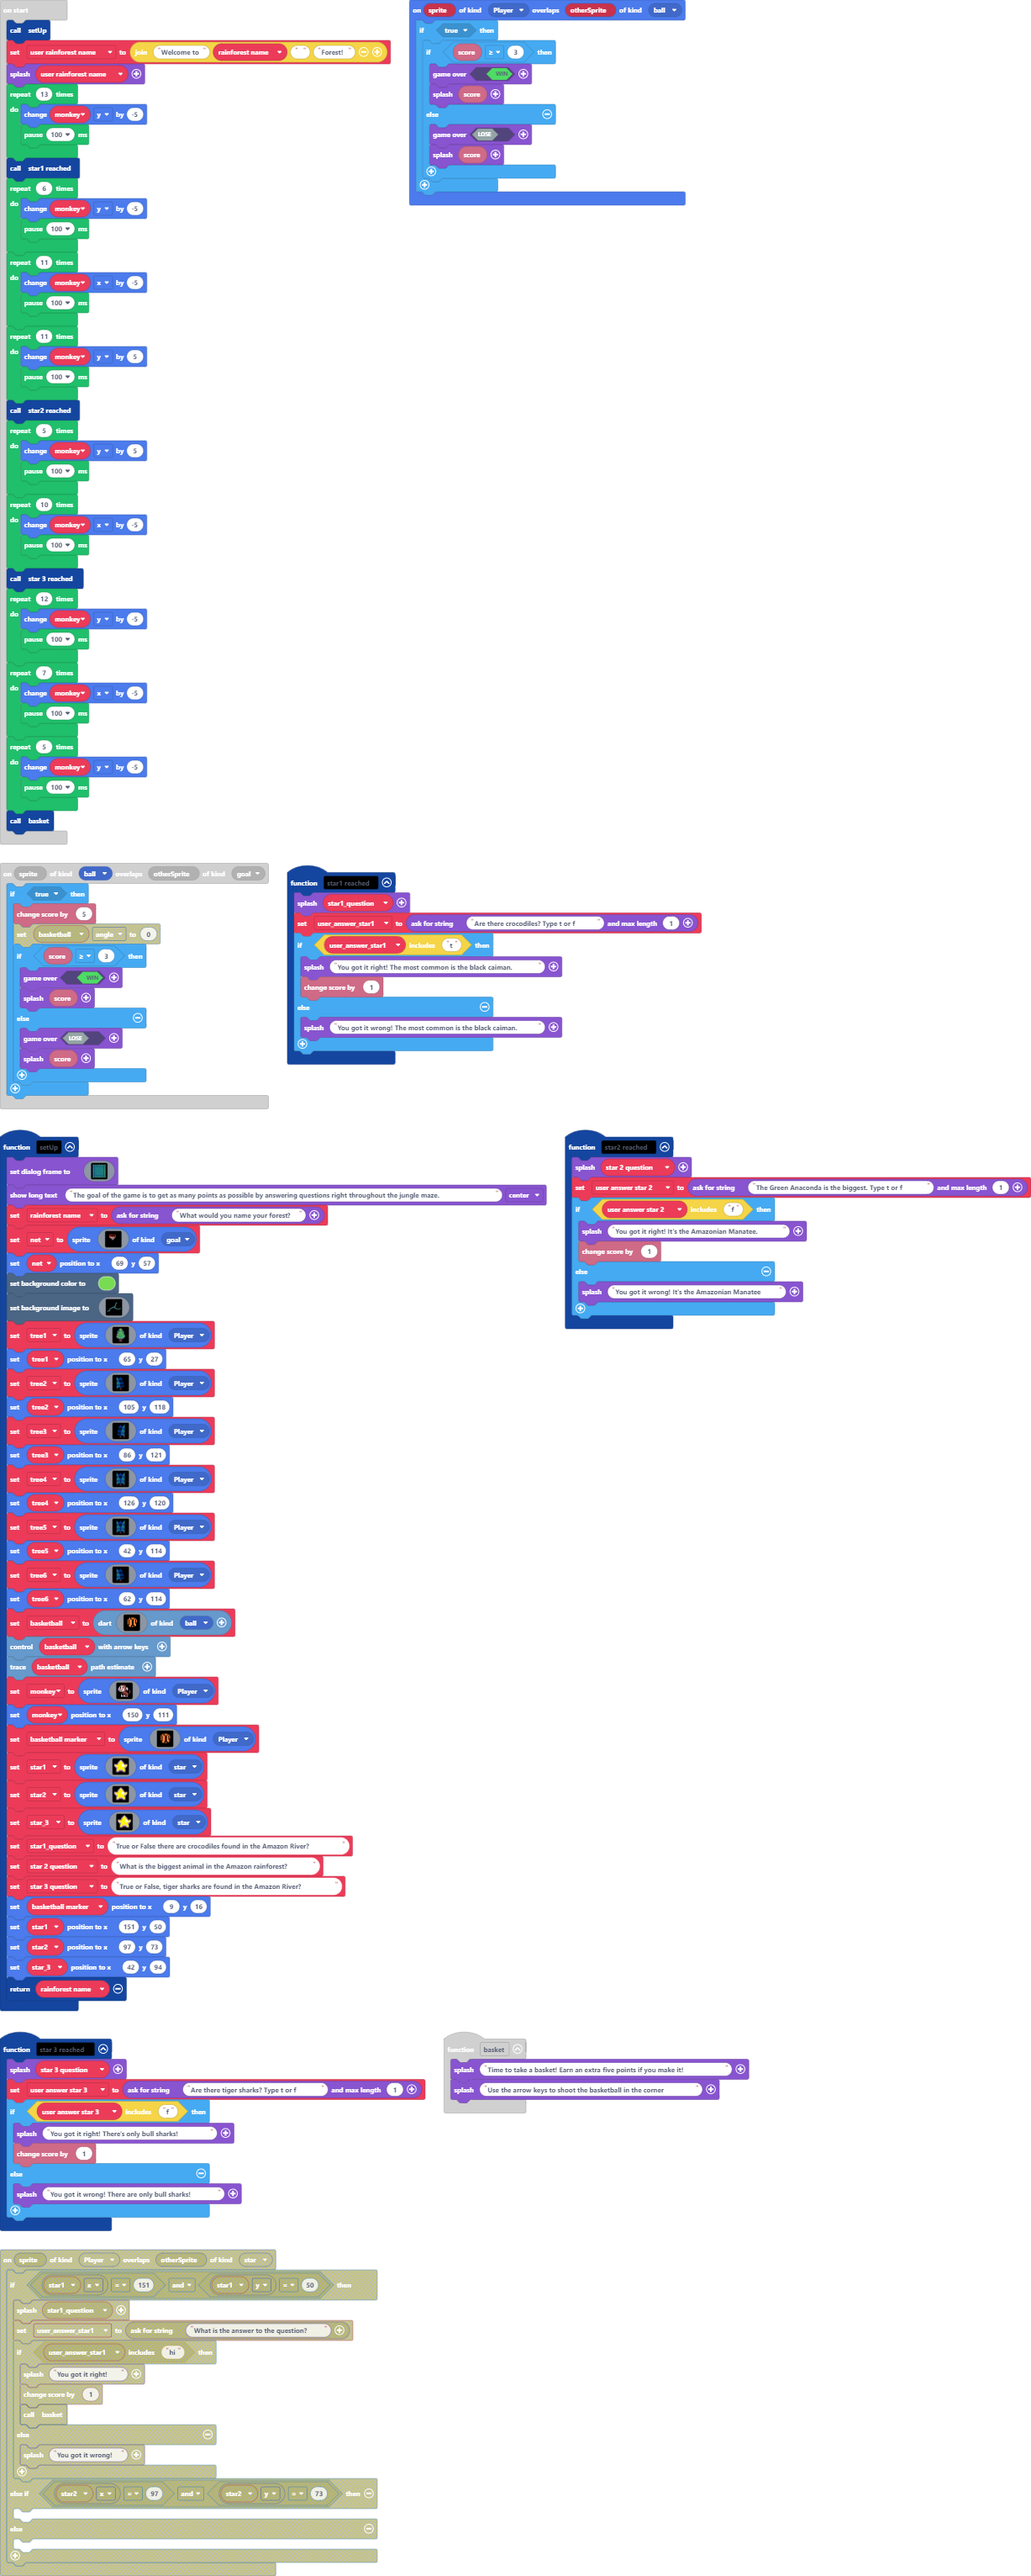
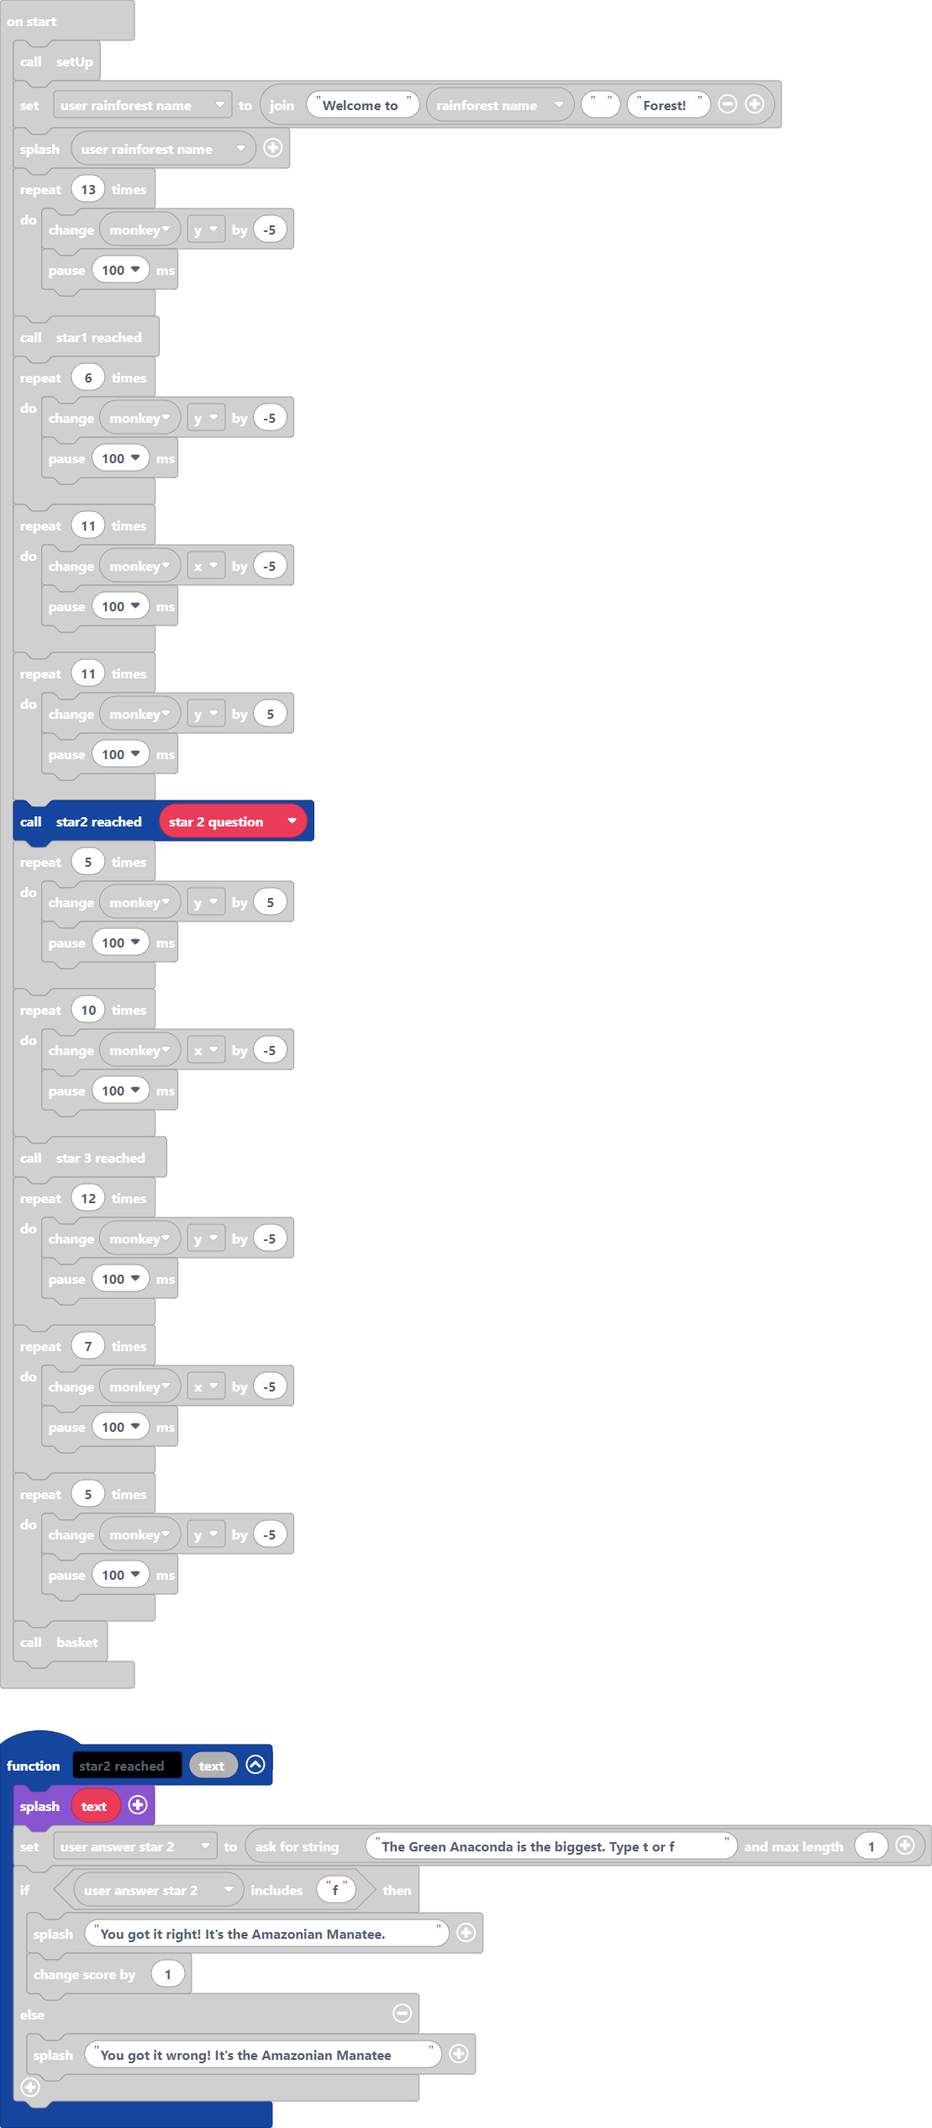
Update pxt.json, main.blocks, main.ts

Changed region(s): [[0.0, 0.0, 1.0, 1.0]]

diff --git a/main.ts b/main.ts
@@ -613,8 +613,8 @@ function star_3_reached () {
         game.splash("You got it wrong! There are only bull sharks!")
     }
 }
-function star2_reached () {
-    game.splash(star_2_question)
+function star2_reached (text: string) {
+    game.splash(text)
     user_answer_star_2 = game.askForString("The Green Anaconda is the biggest. Type t or f", 1)
     if (user_answer_star_2.includes("f")) {
         game.splash("You got it right! It's the Amazonian Manatee.")
@@ -638,7 +638,6 @@ let user_answer_star_2 = ""
 let user_answer_star_3 = ""
 let user_answer_star1 = ""
 let star_3_question = ""
-let star_2_question = ""
 let star1_question = ""
 let star_3: Sprite = null
 let star2: Sprite = null
@@ -652,6 +651,7 @@ let tree3: Sprite = null
 let tree2: Sprite = null
 let tree1: Sprite = null
 let net: Sprite = null
+let star_2_question = ""
 let monkey: Sprite = null
 let rainforest_name = ""
 setUp()
@@ -674,7 +674,7 @@ for (let index = 0; index < 11; index++) {
     monkey.y += 5
     pause(100)
 }
-star2_reached()
+star2_reached(star_2_question)
 for (let index = 0; index < 5; index++) {
     monkey.y += 5
     pause(100)
